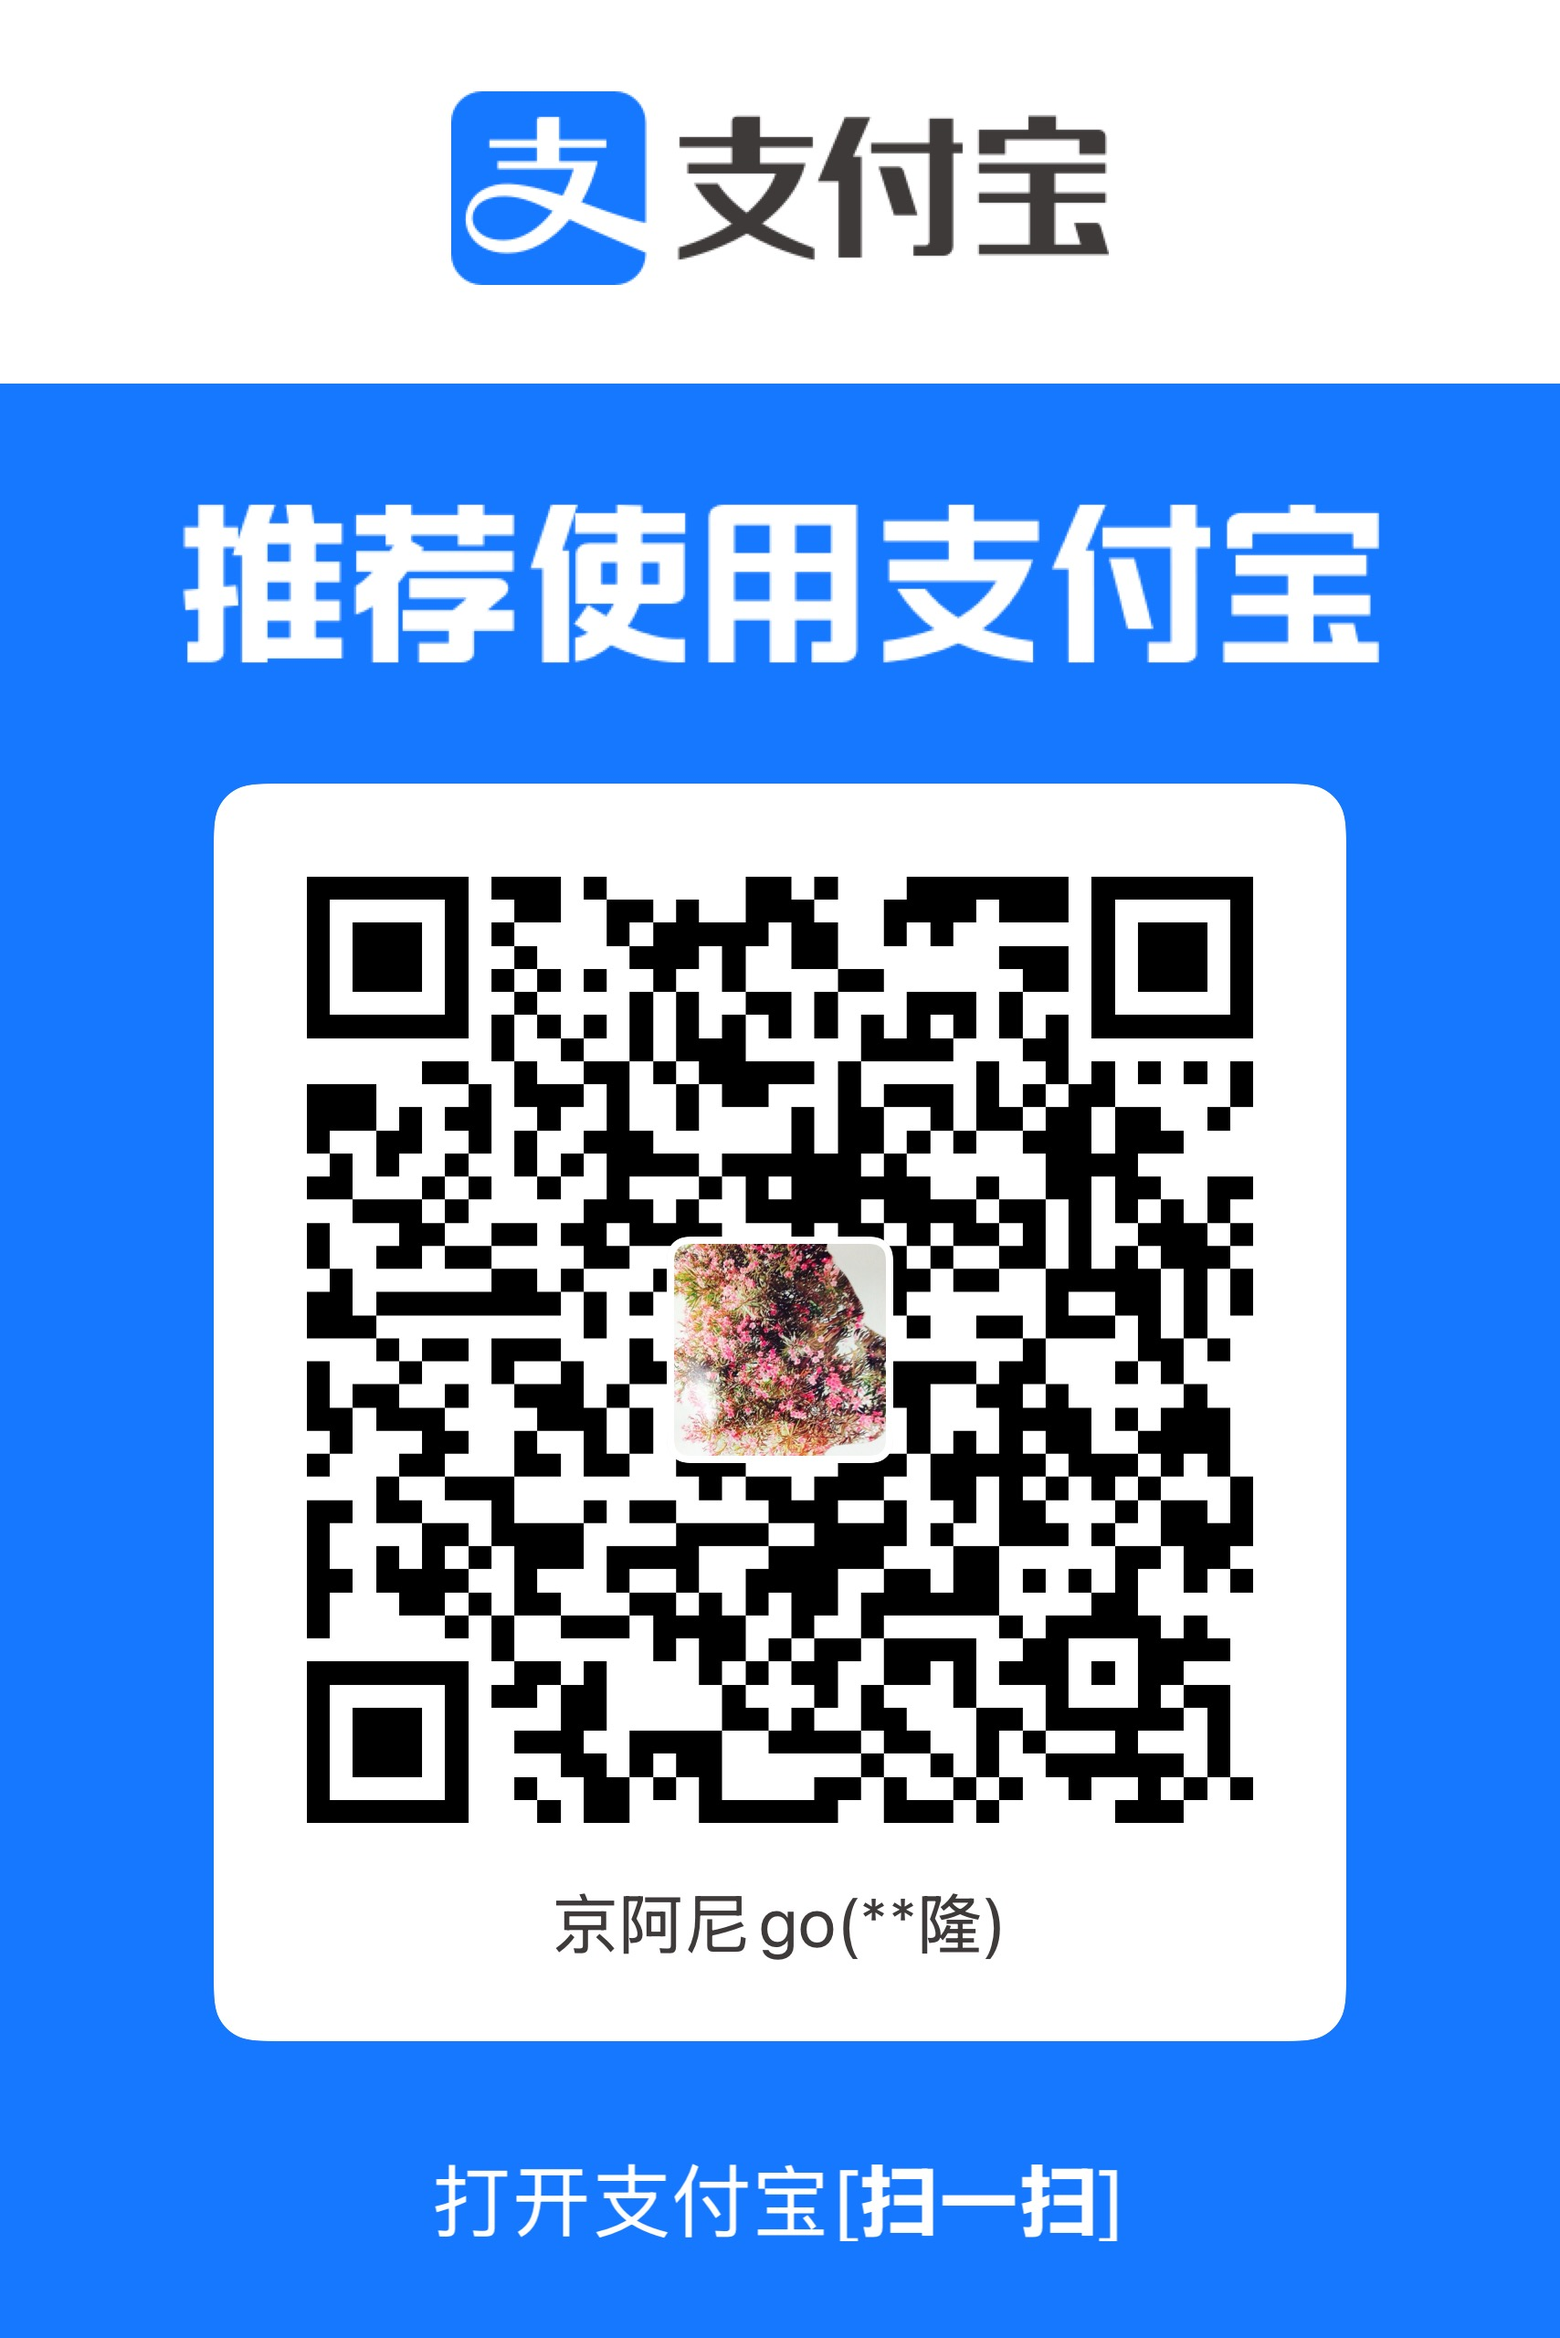
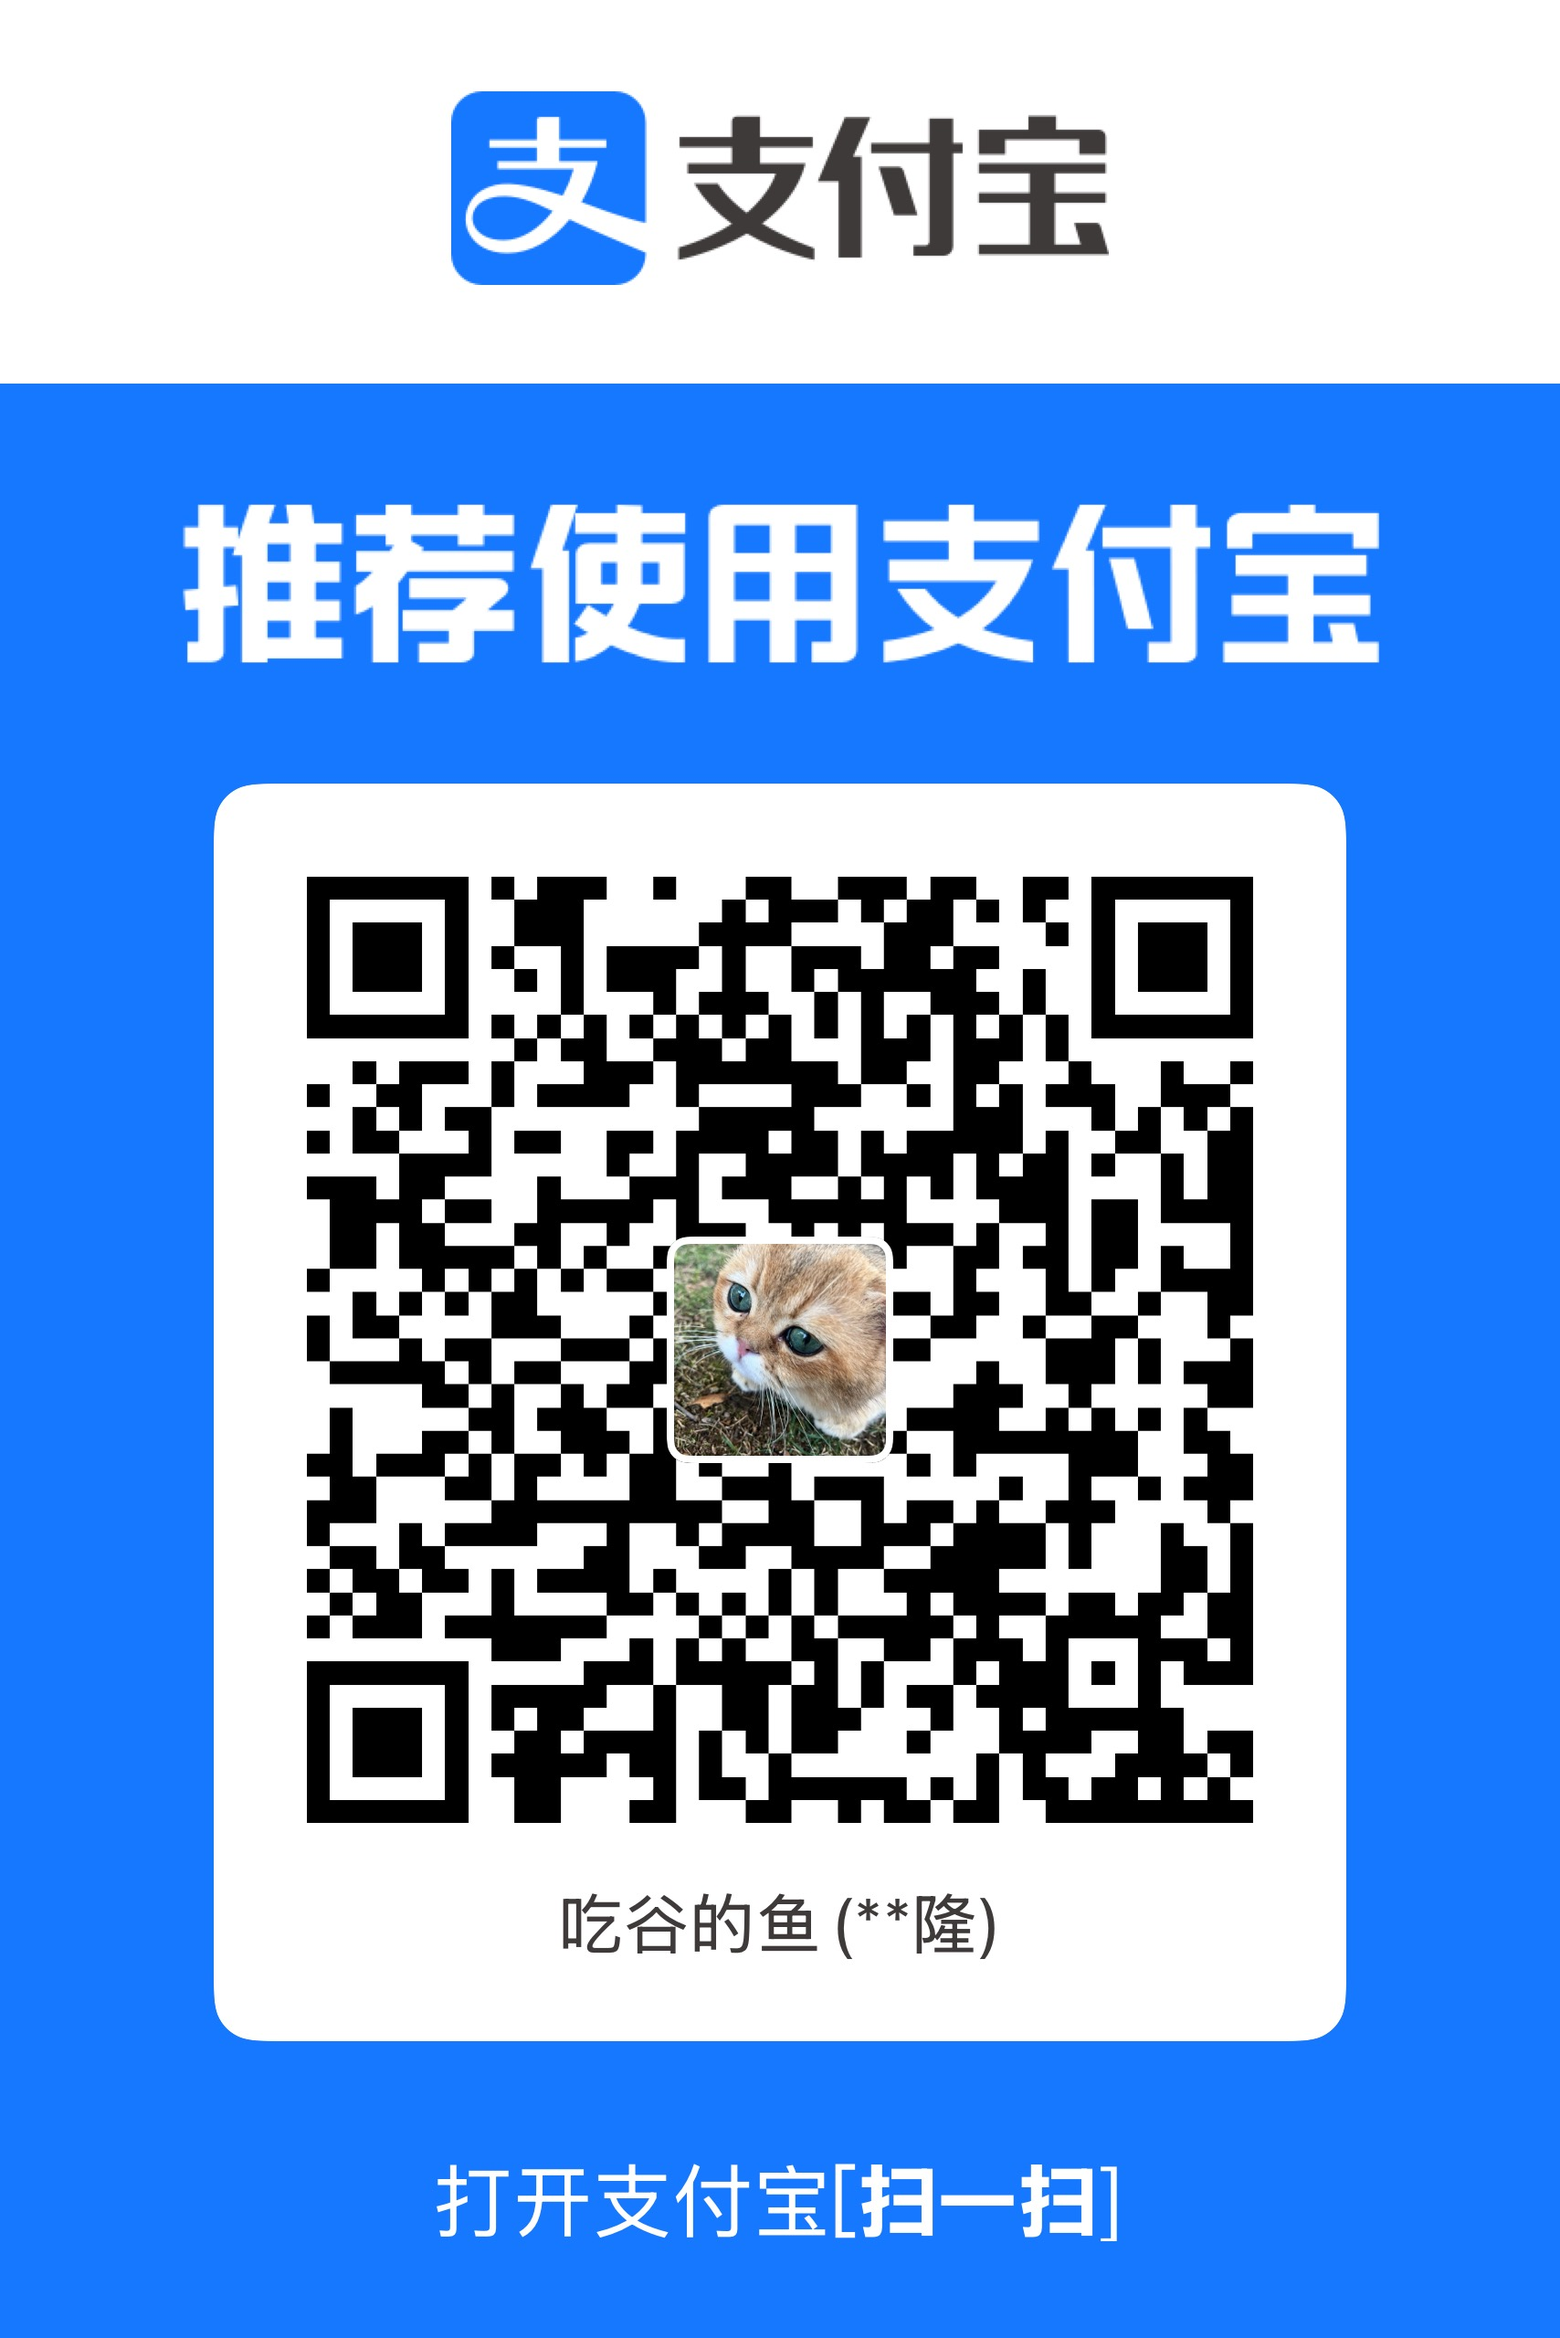
Fix payment QR sizing and update Alipay code

diff --git a/frontend/tests/responsive.spec.ts b/frontend/tests/responsive.spec.ts
@@ -1136,8 +1136,22 @@ test.describe("public pricing and mandatory notices", () => {
       return json(route, {});
     });
     await page.goto("/credits", { waitUntil: "domcontentloaded" });
-    await expect(page.getByAltText("支付宝收款二维码")).toBeVisible();
-    await expect(page.getByAltText("微信收款二维码")).toBeVisible();
+    const alipayQr = page.getByAltText("支付宝收款二维码");
+    const wechatQr = page.getByAltText("微信收款二维码");
+    await expect(alipayQr).toBeVisible();
+    await expect(wechatQr).toBeVisible();
+    const alipayBox = await alipayQr.evaluate((node) => {
+      const rect = node.getBoundingClientRect();
+      return { width: rect.width, height: rect.height };
+    });
+    const wechatBox = await wechatQr.evaluate((node) => {
+      const rect = node.getBoundingClientRect();
+      return { width: rect.width, height: rect.height };
+    });
+    expect(alipayBox.width).toBeGreaterThanOrEqual(300);
+    expect(alipayBox.height / alipayBox.width).toBeCloseTo(2560 / 1708, 2);
+    expect(wechatBox.width).toBeGreaterThanOrEqual(300);
+    expect(wechatBox.height / wechatBox.width).toBeCloseTo(1124 / 828, 2);
     await expect(page.getByText("收款码暂未配置")).toHaveCount(0);
   });
 });

diff --git a/frontend/app/billing/billing-client.tsx b/frontend/app/billing/billing-client.tsx
@@ -452,9 +452,10 @@ function membershipAnnualSavings(plans: MembershipPlan[], annualPlan: Membership
 }
 
 function QrBox({ title, src }: { title: string; src: string }) {
+  const dimensions = title === "支付宝" ? { width: 1708, height: 2560 } : { width: 828, height: 1124 };
   return (
     <div className="billing-qr">
-      {src ? <Image src={src} alt={`${title}收款二维码`} width={180} height={180} unoptimized /> : <span>收款码暂未配置</span>}
+      {src ? <Image src={src} alt={`${title}收款二维码`} {...dimensions} sizes="(max-width: 920px) 100vw, 420px" unoptimized /> : <span>收款码暂未配置</span>}
       <code>{title}收款码</code>
     </div>
   );

diff --git a/frontend/app/credits/credits-client.tsx b/frontend/app/credits/credits-client.tsx
@@ -430,9 +430,10 @@ function parsePositiveInteger(raw: string) {
 }
 
 function QrBox({ title, src }: { title: string; src: string }) {
+  const dimensions = title === "支付宝" ? { width: 1708, height: 2560 } : { width: 828, height: 1124 };
   return (
     <div className="billing-qr">
-      {src ? <Image src={src} alt={`${title}收款二维码`} width={180} height={180} unoptimized /> : <span>收款码暂未配置</span>}
+      {src ? <Image src={src} alt={`${title}收款二维码`} {...dimensions} sizes="(max-width: 920px) 100vw, 420px" unoptimized /> : <span>收款码暂未配置</span>}
       <code>{title}收款码</code>
     </div>
   );

diff --git a/frontend/app/globals.css b/frontend/app/globals.css
@@ -2096,7 +2096,7 @@
 
 .billing-grid {
   display: grid;
-  grid-template-columns: minmax(0, 1fr) 380px;
+  grid-template-columns: minmax(0, 1fr) 440px;
   gap: 22px;
 }
 
@@ -2183,7 +2183,7 @@
 
 .billing-qr-row {
   display: grid;
-  grid-template-columns: repeat(2, minmax(0, 1fr));
+  grid-template-columns: minmax(0, 1fr);
   gap: 12px;
 }
 
@@ -2191,9 +2191,13 @@
   min-height: 230px;
 }
 
+.billing-qr {
+  padding: 12px;
+}
+
 .billing-qr img {
-  width: min(240px, 100%);
-  aspect-ratio: 1;
+  width: min(420px, 100%);
+  height: auto;
   border-radius: 6px;
   background: #fff;
 }
